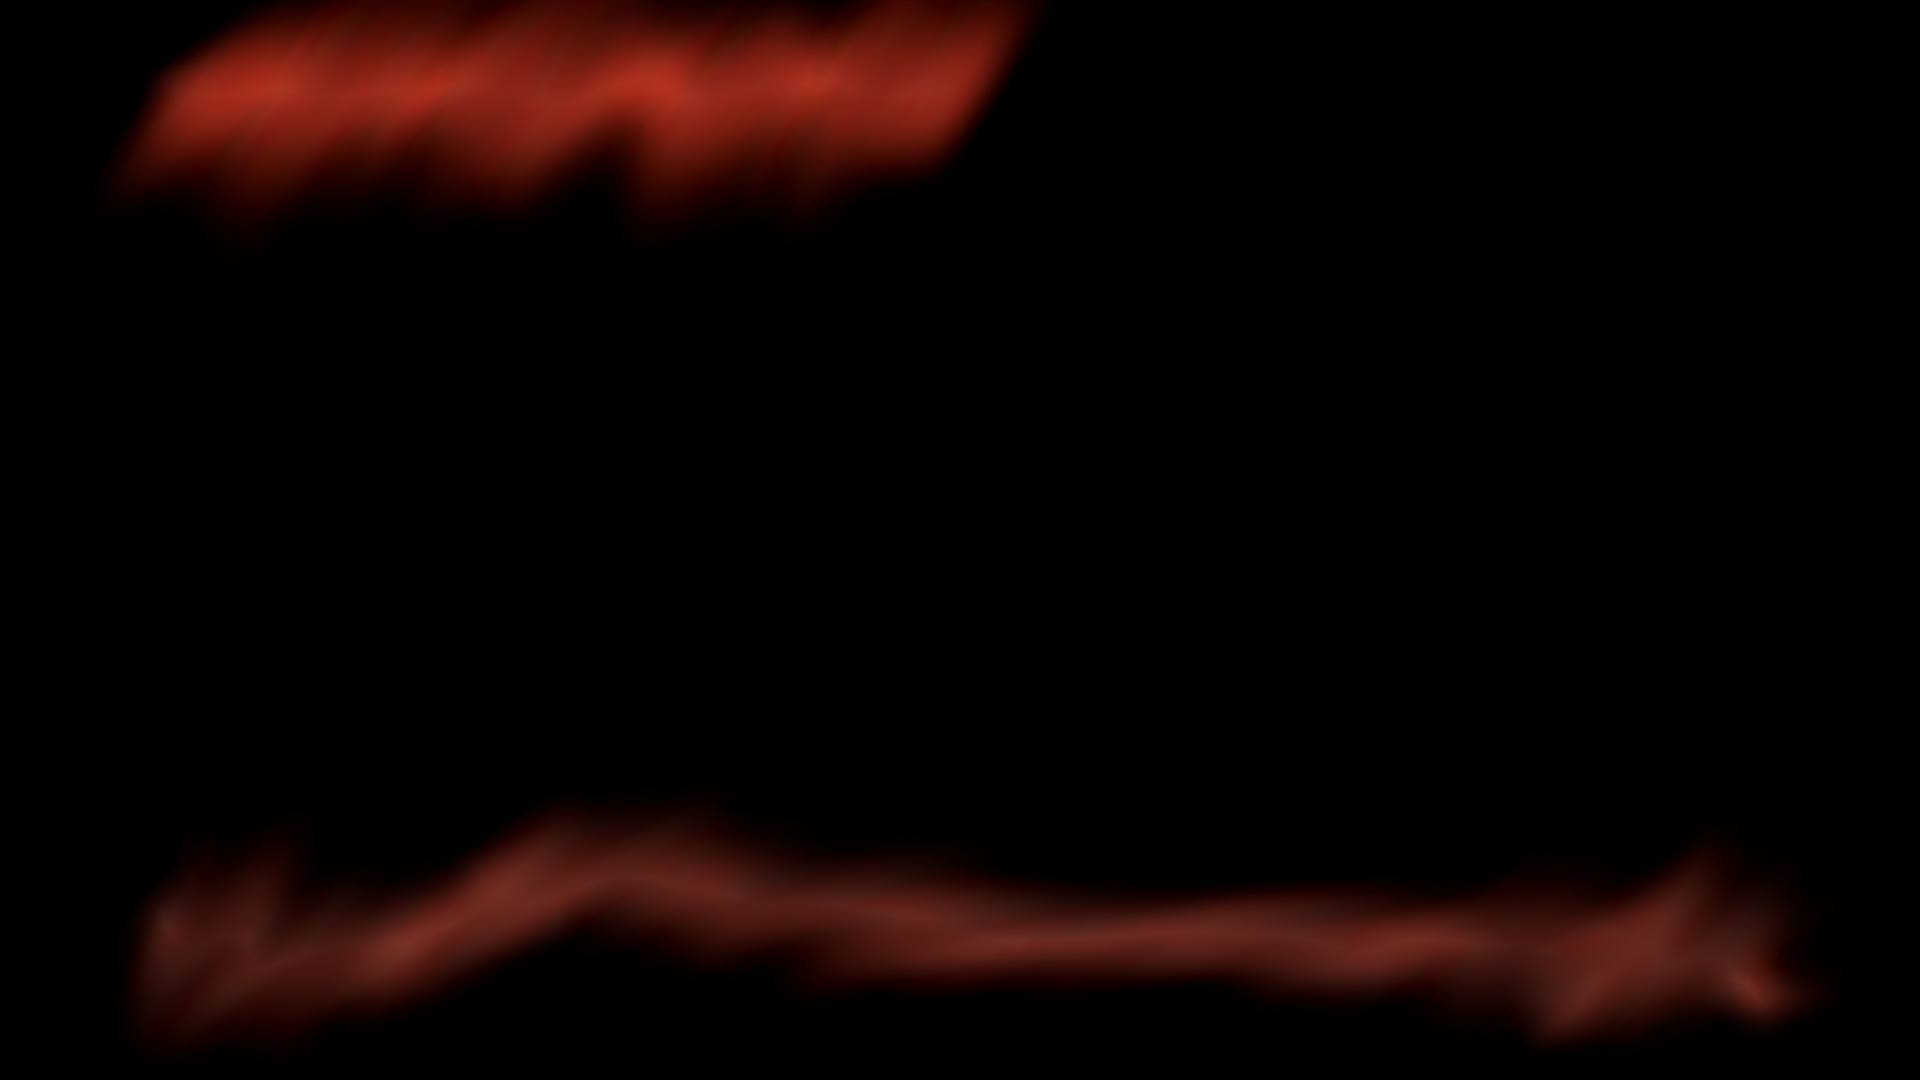
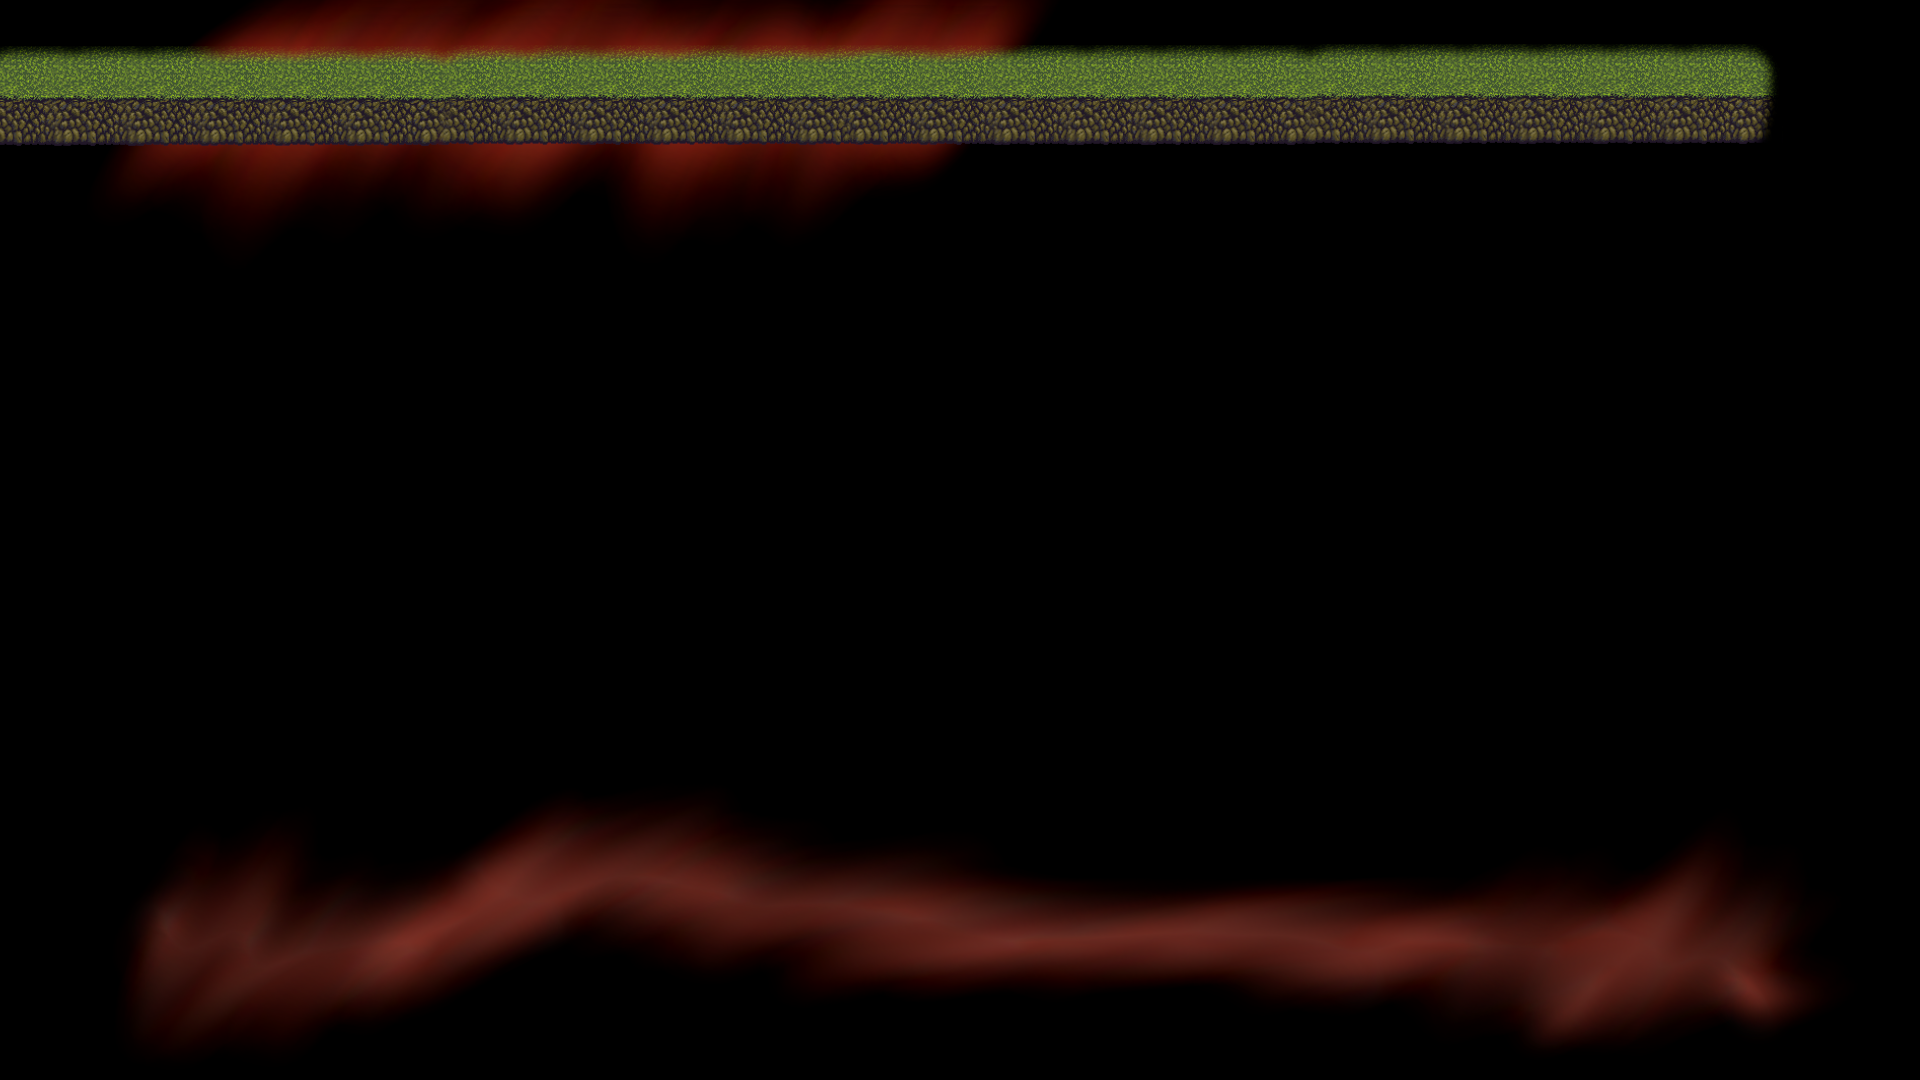
New features and cleaning

Changed region(s): [[0.0, 0.0306, 0.9375, 0.1528]]

diff --git a/Form1.Designer.cs b/Form1.Designer.cs
@@ -43,35 +43,37 @@
             pictureBox1 = new PictureBox();
             XP = new Label();
             ArchiveList = new CheckedListBox();
+            pictureBox2 = new PictureBox();
+            MotivationL = new Label();
+            timer1 = new System.Windows.Forms.Timer(components);
             ((System.ComponentModel.ISupportInitialize)errorProvider1).BeginInit();
             ((System.ComponentModel.ISupportInitialize)pictureBox1).BeginInit();
+            ((System.ComponentModel.ISupportInitialize)pictureBox2).BeginInit();
             SuspendLayout();
             // 
             // ToDoList
             // 
             ToDoList.BackColor = Color.Black;
-            ToDoList.BorderStyle = BorderStyle.FixedSingle;
             ToDoList.CheckOnClick = true;
             ToDoList.Font = new Font("Viner Hand ITC", 9.75F, FontStyle.Regular, GraphicsUnit.Point);
             ToDoList.ForeColor = Color.White;
             ToDoList.FormattingEnabled = true;
             ToDoList.Location = new Point(12, 156);
             ToDoList.Name = "ToDoList";
-            ToDoList.Size = new Size(190, 393);
+            ToDoList.Size = new Size(190, 395);
             ToDoList.TabIndex = 0;
             ToDoList.SelectedIndexChanged += ToDoList_SelectedIndexChanged;
             // 
             // InProgressList
             // 
             InProgressList.BackColor = SystemColors.InfoText;
-            InProgressList.BorderStyle = BorderStyle.FixedSingle;
             InProgressList.CheckOnClick = true;
             InProgressList.Font = new Font("Viner Hand ITC", 9.75F, FontStyle.Regular, GraphicsUnit.Point);
             InProgressList.ForeColor = Color.White;
             InProgressList.FormattingEnabled = true;
             InProgressList.Location = new Point(208, 156);
             InProgressList.Name = "InProgressList";
-            InProgressList.Size = new Size(199, 393);
+            InProgressList.Size = new Size(199, 395);
             InProgressList.TabIndex = 1;
             InProgressList.SelectedIndexChanged += InProgressList_SelectedIndexChanged;
             // 
@@ -114,7 +116,7 @@
             // textBox1
             // 
             textBox1.ForeColor = Color.Gray;
-            textBox1.Location = new Point(93, 46);
+            textBox1.Location = new Point(57, 46);
             textBox1.Name = "textBox1";
             textBox1.Size = new Size(100, 23);
             textBox1.TabIndex = 6;
@@ -124,9 +126,10 @@
             // 
             // AddButton
             // 
+            AddButton.Font = new Font("Viner Hand ITC", 9.75F, FontStyle.Regular, GraphicsUnit.Point);
             AddButton.Location = new Point(12, 46);
             AddButton.Name = "AddButton";
-            AddButton.Size = new Size(75, 23);
+            AddButton.Size = new Size(39, 23);
             AddButton.TabIndex = 7;
             AddButton.Text = "+";
             AddButton.UseVisualStyleBackColor = true;
@@ -135,20 +138,20 @@
             // DoneList
             // 
             DoneList.BackColor = Color.Black;
-            DoneList.BorderStyle = BorderStyle.FixedSingle;
             DoneList.CheckOnClick = true;
             DoneList.Font = new Font("Viner Hand ITC", 9.75F, FontStyle.Regular, GraphicsUnit.Point);
             DoneList.ForeColor = Color.White;
             DoneList.FormattingEnabled = true;
             DoneList.Location = new Point(413, 156);
             DoneList.Name = "DoneList";
-            DoneList.Size = new Size(190, 255);
+            DoneList.Size = new Size(190, 257);
             DoneList.TabIndex = 2;
             DoneList.SelectedIndexChanged += DoneList_SelectedIndexChanged;
             // 
             // progressBar1
             // 
             progressBar1.BackColor = Color.White;
+            progressBar1.ForeColor = SystemColors.Info;
             progressBar1.Location = new Point(12, 12);
             progressBar1.Maximum = 5;
             progressBar1.Name = "progressBar1";
@@ -162,8 +165,9 @@
             // pictureBox1
             // 
             pictureBox1.BackColor = Color.Transparent;
-            pictureBox1.Image = (Image)resources.GetObject("pictureBox1.Image");
-            pictureBox1.Location = new Point(433, 12);
+            pictureBox1.BackgroundImageLayout = ImageLayout.None;
+            pictureBox1.Image = Properties.Resources.Crap;
+            pictureBox1.Location = new Point(444, -1);
             pictureBox1.Name = "pictureBox1";
             pictureBox1.Size = new Size(103, 83);
             pictureBox1.TabIndex = 9;
@@ -182,14 +186,42 @@
             // ArchiveList
             // 
             ArchiveList.BackColor = Color.Black;
-            ArchiveList.BorderStyle = BorderStyle.FixedSingle;
             ArchiveList.Font = new Font("Viner Hand ITC", 9.75F, FontStyle.Regular, GraphicsUnit.Point);
             ArchiveList.ForeColor = Color.White;
             ArchiveList.FormattingEnabled = true;
             ArchiveList.Location = new Point(413, 432);
             ArchiveList.Name = "ArchiveList";
-            ArchiveList.Size = new Size(190, 117);
+            ArchiveList.Size = new Size(190, 119);
             ArchiveList.TabIndex = 11;
+            // 
+            // pictureBox2
+            // 
+            pictureBox2.BackColor = Color.Transparent;
+            pictureBox2.ErrorImage = Properties.Resources.XwI4;
+            pictureBox2.Image = Properties.Resources.XwI4;
+            pictureBox2.Location = new Point(609, 349);
+            pictureBox2.Name = "pictureBox2";
+            pictureBox2.Size = new Size(210, 200);
+            pictureBox2.TabIndex = 12;
+            pictureBox2.TabStop = false;
+            // 
+            // MotivationL
+            // 
+            MotivationL.BackColor = Color.Transparent;
+            MotivationL.Font = new Font("Viner Hand ITC", 12F, FontStyle.Regular, GraphicsUnit.Point);
+            MotivationL.ForeColor = Color.White;
+            MotivationL.ImageAlign = ContentAlignment.BottomLeft;
+            MotivationL.Location = new Point(609, 241);
+            MotivationL.Name = "MotivationL";
+            MotivationL.Size = new Size(122, 105);
+            MotivationL.TabIndex = 13;
+            MotivationL.TextAlign = ContentAlignment.BottomRight;
+            // 
+            // timer1
+            // 
+            timer1.Enabled = true;
+            timer1.Interval = 5000;
+            timer1.Tick += timer1_Tick;
             // 
             // Form1
             // 
@@ -198,6 +230,8 @@
             BackColor = Color.White;
             BackgroundImage = Properties.Resources.BackBasic;
             ClientSize = new Size(831, 565);
+            Controls.Add(MotivationL);
+            Controls.Add(pictureBox2);
             Controls.Add(ArchiveList);
             Controls.Add(XP);
             Controls.Add(pictureBox1);
@@ -211,10 +245,13 @@
             Controls.Add(InProgressList);
             Controls.Add(ToDoList);
             FormBorderStyle = FormBorderStyle.FixedDialog;
+            Icon = (Icon)resources.GetObject("$this.Icon");
+            MaximizeBox = false;
             Name = "Form1";
             Text = "Form1";
             ((System.ComponentModel.ISupportInitialize)errorProvider1).EndInit();
             ((System.ComponentModel.ISupportInitialize)pictureBox1).EndInit();
+            ((System.ComponentModel.ISupportInitialize)pictureBox2).EndInit();
             ResumeLayout(false);
             PerformLayout();
         }
@@ -234,5 +271,8 @@
         private PictureBox pictureBox1;
         private Label XP;
         private CheckedListBox ArchiveList;
+        private PictureBox pictureBox2;
+        private Label MotivationL;
+        private System.Windows.Forms.Timer timer1;
     }
 }

diff --git a/Form1.cs b/Form1.cs
@@ -1,5 +1,7 @@
 using Microsoft.VisualBasic.ApplicationServices;
+using System;
 using System.CodeDom;
+using System.Drawing;
 using System.Security.Policy;
 
 namespace HeroTasker
@@ -11,8 +13,10 @@ namespace HeroTasker
             InitializeComponent();
         }
         public DateOnly date = DateOnly.FromDateTime(DateTime.Now);
+        public Random rand = new Random();
         public void button1_Click(object sender, EventArgs e)
         {
+            //Add task to ToDoList
             string? selectedTask = textBox1.Text;
             if (string.IsNullOrEmpty(selectedTask))
             {
@@ -25,12 +29,16 @@ namespace HeroTasker
         }
         public void ToDoList_SelectedIndexChanged(object sender, EventArgs e)
         {
+            //Add task to InProgressList and remove from ToDoList
+            //Additional error 
             string? selectedDo = ToDoList.GetItemText(ToDoList.SelectedItem);
             ToDoList.Items.Remove(selectedDo);
             InProgressList.Items.Add(selectedDo);
         }
         private void InProgressList_SelectedIndexChanged(object sender, EventArgs e)
         {
+            //Add task to DoneList and remove from InProgressList
+            //Additional error 
             if (InProgressList.Items.Count < 0)
             {
                 errorProvider1.SetError(textBox1, "No tasks");
@@ -44,25 +52,22 @@ namespace HeroTasker
         }
         private void DoneList_SelectedIndexChanged(object sender, EventArgs e)
         {
+            //Add task to ArchiveList and remove from DoneList
+            //XPText update depends on progressBar
+            //Raise value in progressBar depends on amount of tasks checked
+            //Changes of gif after reach maxValue
             string? selectedDoneList = DoneList.GetItemText(DoneList.SelectedItem);
             ArchiveList.Items.Add(selectedDoneList);
             DoneList.Items.Remove(selectedDoneList);
             progressBar1.Value += 1;
+            progressBar1.ForeColor = Color.Crimson;
             XP.Text = $"XP {progressBar1.Value}/{progressBar1.Maximum}";
-            if (progressBar1.Value > (progressBar1.Value / 2))
-            {
-                pictureBox1.Image.Dispose();
-                pictureBox1.Image = Image.FromFile(@"F:\\MVS Projects\\HeroTasker\\Enemy\\HURT_0001w2.png");
-            }
-            if (progressBar1.Value < (progressBar1.Value / 2))
-            {
-                pictureBox1.Visible = true;
-                pictureBox1.Image = Image.FromFile(@"F:\\MVS Projects\\HeroTasker\\Enemy\\HURT_0001.png");
-            }
             if (progressBar1.Value == progressBar1.Maximum)
             {
                 progressBar1.Value = 0;
                 progressBar1.Maximum += 2;
+                var files = Directory.GetFiles("F:\\MVS Projects\\HeroTasker\\Enemy", "*.gif");
+                pictureBox1.ImageLocation = files[rand.Next(files.Length)];
             }
             //if (DoneList.Items.Contains(date.CompareTo(DateTime.Now) < 1))
             //{
@@ -72,6 +77,12 @@ namespace HeroTasker
         public void textBox1_TextChanged(object sender, EventArgs e)
         {
             textBox1.ForeColor = System.Drawing.Color.Black;
+        }
+
+        private void timer1_Tick(object sender, EventArgs e)
+        {
+            string[] motivQuote = { "Just roll", "Always is a good moment for estus", "Everybody can drop soul", "Your allies are your souls", "Heavier it is harder it hits" };
+            MotivationL.Text = motivQuote[rand.Next(motivQuote.Length)];
         }
     }
 }

diff --git a/Properties/Resources.Designer.cs b/Properties/Resources.Designer.cs
@@ -69,5 +69,35 @@ namespace HeroTasker.Properties {
                 return ((System.Drawing.Bitmap)(obj));
             }
         }
+        
+        /// <summary>
+        ///   Looks up a localized resource of type System.Drawing.Bitmap.
+        /// </summary>
+        internal static System.Drawing.Bitmap Crap {
+            get {
+                object obj = ResourceManager.GetObject("Crap", resourceCulture);
+                return ((System.Drawing.Bitmap)(obj));
+            }
+        }
+        
+        /// <summary>
+        ///   Looks up a localized resource of type System.Drawing.Bitmap.
+        /// </summary>
+        internal static System.Drawing.Bitmap ground {
+            get {
+                object obj = ResourceManager.GetObject("ground", resourceCulture);
+                return ((System.Drawing.Bitmap)(obj));
+            }
+        }
+        
+        /// <summary>
+        ///   Looks up a localized resource of type System.Drawing.Bitmap.
+        /// </summary>
+        internal static System.Drawing.Bitmap XwI4 {
+            get {
+                object obj = ResourceManager.GetObject("XwI4", resourceCulture);
+                return ((System.Drawing.Bitmap)(obj));
+            }
+        }
     }
 }

diff --git a/Program.cs b/Program.cs
@@ -12,7 +12,6 @@ namespace HeroTasker
             // see https://aka.ms/applicationconfiguration.
             ApplicationConfiguration.Initialize();
             Application.Run(new Form1());
-            
         }
     }
 }
